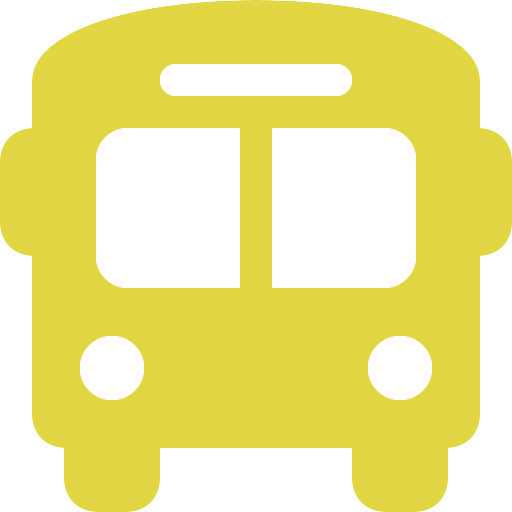
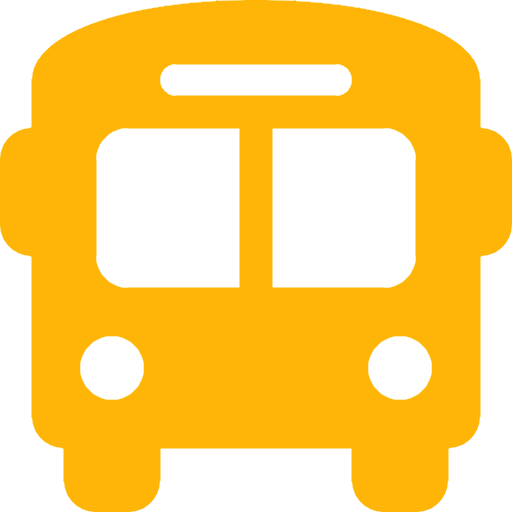
Finished visuals for stopPanel
- Finished visuals for stopPanel
- Tiny visual improvements for various icons
- Updated README.md

diff --git a/src/damose/StopPanel.java b/src/damose/StopPanel.java
@@ -23,8 +23,8 @@ import java.awt.event.ActionEvent;
 
 public class StopPanel extends JPanel {
 	
-	private JLabel nomeFermata, codiceFermata, lblArrivi;
-	private JButton btnClose, btnFavorite, btnWebsite, btnWheelChair, btnStopType;
+	private JLabel nomeFermata, codiceFermata, lblArrivi, lblLineePassanti;
+	private JButton btnClose, btnStopIcon, btnFavorite, btnCoordinates;
 	private Utente utente;
 	private DatiGTFS dati;
 	
@@ -47,7 +47,7 @@ public class StopPanel extends JPanel {
 		nomeFermata.setFont(new Font("Arial Nova", Font.BOLD, 24));
 		nomeFermata.setFocusable(false);
 								
-		nomeFermata.setBounds(80, 70, 180, 50);
+		nomeFermata.setBounds(70, 65, 200, 50);
 								
 		this.add(nomeFermata);
 		
@@ -59,7 +59,7 @@ public class StopPanel extends JPanel {
 		codiceFermata.setFont(new Font("Arial Nova", Font.ITALIC, 12));
 		codiceFermata.setFocusable(false);
 		
-		codiceFermata.setBounds(20, 125, 300, 20);
+		codiceFermata.setBounds(20, 120, 300, 20);
         
         this.add(codiceFermata);
         
@@ -73,9 +73,23 @@ public class StopPanel extends JPanel {
 		lblArrivi.setFont(new Font("Arial Nova", Font.BOLD, 24));
 		lblArrivi.setFocusable(false);
 		
-		lblArrivi.setBounds(20, 200, 200, 50);
+		lblArrivi.setBounds(20, 160, 200, 50);
 		
 		this.add(lblArrivi);
+		
+		
+		// JLabel che contiene la scritta "Appartiene a:"
+		lblLineePassanti = new JLabel("Appartiene a:");
+		
+		lblLineePassanti.setHorizontalAlignment(SwingConstants.LEADING);
+		
+		lblLineePassanti.setForeground(Color.WHITE);
+		lblLineePassanti.setFont(new Font("Arial Nova", Font.BOLD, 24));
+		lblLineePassanti.setFocusable(false);
+		
+		lblLineePassanti.setBounds(20, 380, 200, 50);
+		
+		this.add(lblLineePassanti);
 		
 
         // Pulsante per chiuderere lo stopPanel
@@ -93,7 +107,7 @@ public class StopPanel extends JPanel {
         btnClose.setBounds(-25, 5, 200, 30);
         
         ImageIcon iconClose = new ImageIcon("src/resources/close.png");
-        Image scaledImageClose = iconClose.getImage().getScaledInstance(30, 30, Image.SCALE_SMOOTH);
+        Image scaledImageClose = iconClose.getImage().getScaledInstance(20, 20, Image.SCALE_SMOOTH);
         ImageIcon newIconClose = new ImageIcon(scaledImageClose);
         btnClose.setIcon(newIconClose);
         
@@ -104,6 +118,27 @@ public class StopPanel extends JPanel {
         });
         
         this.add(btnClose);
+        
+        
+        // Pulsante per l'icona di una fermata (non interattivo, serve solo a visualizzare comodamente l'icona)
+        btnStopIcon = new JButton();
+        
+        btnStopIcon.setContentAreaFilled(false);
+        btnStopIcon.setFocusPainted(false);
+        btnStopIcon.setBorderPainted(false);
+        btnStopIcon.setBackground(new Color(255, 255, 255));
+		
+        btnStopIcon.setFocusable(false);
+		
+        btnStopIcon.setPreferredSize(new Dimension(40, 40));
+        btnStopIcon.setBounds(20, 70, 40, 40);
+        
+        ImageIcon iconStop = new ImageIcon("src/resources/fermata-bianco.png");
+        Image scaledImageStop = iconStop.getImage().getScaledInstance(32, 40, Image.SCALE_SMOOTH);
+        ImageIcon newIconStop = new ImageIcon(scaledImageStop);
+        btnStopIcon.setIcon(newIconStop);
+		
+		this.add(btnStopIcon);
         
         
         // Pulsante per l'aggiunta o la rimozione della fermata dai preferiti dell'utente
@@ -120,81 +155,35 @@ public class StopPanel extends JPanel {
         btnFavorite.setVisible(false);
         
         btnFavorite.setPreferredSize(new Dimension(50, 50));
-        btnFavorite.setBounds(290, 70, 50, 50);
+        btnFavorite.setBounds(290, 68, 50, 50);
         
         this.add(btnFavorite);
         
         
-        // Pulsante per aprire l'URL relativo alla linea in questione
-        btnWebsite = new JButton();
+        // Pulsante per le coordinate della fermata (non interattivo, serve solo a visualizzare comodamente icona e informazione)
+        btnCoordinates = new JButton();
         
-        btnWebsite.setCursor(Cursor.getPredefinedCursor(Cursor.HAND_CURSOR));
+        btnCoordinates.setForeground(Color.WHITE);
+        btnCoordinates.setFont(new Font("Arial Nova", Font.BOLD, 12));
+        btnCoordinates.setHorizontalAlignment(SwingConstants.LEADING);
+        btnCoordinates.setText(" Coordinate della fermata");
         
-        btnWebsite.setForeground(new Color(255, 255, 255));
-        btnWebsite.setFont(new Font("Arial Nova", Font.BOLD, 11));
-        btnWebsite.setText(" Sito Web");
-        btnWebsite.setHorizontalAlignment(SwingConstants.LEADING);
+        btnCoordinates.setContentAreaFilled(false);
+        btnCoordinates.setFocusPainted(false);
+        btnCoordinates.setBorderPainted(false);
+        btnCoordinates.setBackground(new Color(130, 36, 51));
         
-        btnWebsite.setContentAreaFilled(false);
-        btnWebsite.setFocusPainted(false);
-        btnWebsite.setBorderPainted(false);
-        btnWebsite.setBackground(new Color(130, 36, 51));
+        btnCoordinates.setFocusable(false);
         
-        btnWebsite.setPreferredSize(new Dimension(20, 20));
-        btnWebsite.setBounds(3, 160, 120, 20);
+        btnCoordinates.setPreferredSize(new Dimension(20, 20));
+        btnCoordinates.setBounds(145, 119, 180, 20);
         
-        ImageIcon iconWebsite = new ImageIcon("src/resources/mondo.png");
-        Image scaledImageWebsite = iconWebsite.getImage().getScaledInstance(20, 20, Image.SCALE_SMOOTH);
-        ImageIcon newIconWebsite = new ImageIcon(scaledImageWebsite);
-        btnWebsite.setIcon(newIconWebsite);
+        ImageIcon iconCoordinates = new ImageIcon("src/resources/coordinates.png");
+        Image scaledImageCoordinates = iconCoordinates.getImage().getScaledInstance(20, 18, Image.SCALE_SMOOTH);
+        ImageIcon newIconCoordinates = new ImageIcon(scaledImageCoordinates);
+        btnCoordinates.setIcon(newIconCoordinates);
         
-        this.add(btnWebsite);
-        
-        
-        // Pulsante per accessibilità con sedia a rotelle (non interattivo, serve solo per implementare comodamente il simbolo)
-        btnWheelChair = new JButton();
-     		
-     	btnWheelChair.setForeground(new Color(255, 255, 255));
-     	btnWheelChair.setFont(new Font("Arial Nova", Font.BOLD, 11));
-     	btnWheelChair.setHorizontalAlignment(SwingConstants.LEADING);
-     	btnWheelChair.setText("Disponibilità");
-     	btnWheelChair.setFocusable(false);
-     		
-     	btnWheelChair.setContentAreaFilled(false);
-     	btnWheelChair.setFocusPainted(false);
-     	btnWheelChair.setBorderPainted(false);
-     	btnWheelChair.setBackground(new Color(130, 36, 51));
-     		
-     	btnWheelChair.setPreferredSize(new Dimension(20, 20));
-     	btnWheelChair.setBounds(140, 160, 120, 20);
-     		
-     	ImageIcon iconWheelChair = new ImageIcon("src/resources/sedia.png");
-        Image scaledImageWheelChair = iconWheelChair.getImage().getScaledInstance(20, 20, Image.SCALE_SMOOTH);
-        ImageIcon newIconWheelChair = new ImageIcon(scaledImageWheelChair);
-        btnWheelChair.setIcon(newIconWheelChair);
-             
-        this.add(btnWheelChair);
-        
-        
-        // Pulsante per il tipo della fermata (fermata, stazione, ingresso di stazione, nodo, boarding area) (non interattivo, serve solo a visualizzare comodamente icona e informazione)
-        btnStopType = new JButton();
-        
-        btnStopType.setForeground(Color.WHITE);
-        btnStopType.setFont(new Font("Arial Nova", Font.BOLD, 11));
-        btnStopType.setHorizontalAlignment(SwingConstants.LEADING);
-        btnStopType.setText("Tipo di fermata");
-        
-        btnStopType.setContentAreaFilled(false);
-        btnStopType.setFocusPainted(false);
-        btnStopType.setBorderPainted(false);
-        btnStopType.setBackground(new Color(130, 36, 51));
-        
-        btnStopType.setFocusable(false);
-        
-        btnStopType.setPreferredSize(new Dimension(20, 20));
-        btnStopType.setBounds(280, 160, 120, 20);
-        
-        this.add(btnStopType);
+        this.add(btnCoordinates);
 	}
 	
 	
@@ -203,58 +192,60 @@ public class StopPanel extends JPanel {
 		
 		this.setVisible(true);
 		
-		nomeFermata.setText(fermata.getName());
-		codiceFermata.setText("ID: " + fermata.getCode());
-		int accessibile = fermata.getWheelchairBoarding(); 
-		
-		switch (accessibile) {
-			case 1:
-				btnWheelChair.setText("Accessibile");
-				break;
-				
-			case 0:
-				btnWheelChair.setText("Non accessibile");
-				break;
-				
-			default:
-				btnWheelChair.setText("Nessuna informazione");
-				break;
+		if (utente.getFermatePreferite() != null) {
+			btnFavorite.setEnabled(true);
+			btnFavorite.setVisible(true);
+			
+		    boolean isPreferita = false;
+		    
+		    for (String fermataPreferita : utente.getFermatePreferite()) {
+		        if (fermataPreferita.equals(fermata.getId().getId())) {
+		            isPreferita = true;
+		            break;
+		        }
+		    }
+
+		    String iconCuorePath = isPreferita ? "src/resources/cuore.png" : "src/resources/cuore-vuoto.png";
+		    ImageIcon iconCuore = new ImageIcon(iconCuorePath);
+		    Image scaledImageCuore = iconCuore.getImage().getScaledInstance(30, 30, Image.SCALE_SMOOTH);
+		    btnFavorite.setIcon(new ImageIcon(scaledImageCuore));
 		}
 		
 		for (ActionListener a : btnFavorite.getActionListeners()) {
 		    btnFavorite.removeActionListener(a);
 		}
 		
-		// Funzionalità per il pulsante btnPreferiti
 		btnFavorite.addActionListener(new ActionListener() {
 		    public void actionPerformed(ActionEvent e) {
 		        
-		        List<String> listaFermatePreferite = utente.getFermatePreferite();
+		        List<String> fermatePreferite = utente.getFermatePreferite();
 		        String idFermata = fermata.getId().getId();
-		        boolean isPreferita;
 		        
-		        if (listaFermatePreferite.contains(idFermata)) {
-		        	
-		            listaFermatePreferite.remove(idFermata);
-		            isPreferita = false;
+		        boolean isOraPreferita;
 		        
+		        if (fermatePreferite.contains(idFermata)) {
+		        	fermatePreferite.remove(idFermata);
+		        	isOraPreferita = false;
 		        } else {
-		        	
-		            listaFermatePreferite.add(idFermata);
-		            isPreferita = true;
+		        	fermatePreferite.add(idFermata);
+		            isOraPreferita = true;
 		        }
 		        
 		        try {
-					utente.cambiaFermatePreferite(listaFermatePreferite);
+					utente.cambiaFermatePreferite(fermatePreferite);
 				} catch (IOException e1) {
 					e1.printStackTrace();
 				}
 		        
-		        String iconPath = isPreferita ? "src/resources/cuore.png" : "src/resources/cuore-vuoto.png";
-		        ImageIcon iconPreferiti = new ImageIcon(iconPath);
-		        Image scaledIconPreferiti = iconPreferiti.getImage().getScaledInstance(30, 30, Image.SCALE_SMOOTH);
-		        btnFavorite.setIcon(new ImageIcon(scaledIconPreferiti));
+		        String iconCuorePath = isOraPreferita ? "src/resources/cuore.png" : "src/resources/cuore-vuoto.png";
+		        ImageIcon iconCuore = new ImageIcon(iconCuorePath);
+		        Image scaledImageCuore = iconCuore.getImage().getScaledInstance(30, 30, Image.SCALE_SMOOTH);
+		        btnFavorite.setIcon(new ImageIcon(scaledImageCuore));
 		    }
 		});
+		
+		nomeFermata.setText(fermata.getName());
+		codiceFermata.setText("ID: " + fermata.getCode());
+		btnCoordinates.setText(" " + Math.floor(fermata.getLat() * 100000) / 100000 + ", " + Math.floor(fermata.getLon() * 100000) / 100000);
 	}	
 }

diff --git a/src/damose/RoutePanel.java b/src/damose/RoutePanel.java
@@ -282,6 +282,7 @@ public class RoutePanel extends JPanel {
 	
 	// Metodo che "costruisce" concretamente il lineaPanel in base alla linea in questione
 	public void creaPannelloLinea(Route linea, DatiGTFS dati) {
+		
 		this.setVisible(true);
 		
 		if (fermateScrollPane != null) {

diff --git a/README.md b/README.md
@@ -21,16 +21,9 @@ ___
 - Personalizzare l'aspetto dei waypoint (fermate di agenzie diverse, mezzi, ecc. ecc.)
 
 #### StopPanel:
-Alla selezione di una determinata fermata, dovrebbero diventare accessibili le seguenti informazioni:
-- informazioni identificative
-	- nome
-	- codice
-	- coordinate
-	- ID
-	- tipo 
-	- accessibilità
+Da implementare:
 - linee passanti per tale fermata
-- se presente, prossimi arrivi con linea di appartenenza e orario di arrivo e direzione
+- se presenti, prossimi arrivi con linea di appartenenza, orario di arrivo e direzione
 - ritardo tipico dei mezzi per tale fermata
 - (OPZIONALE MA SAREBBE BELLO) vicinanza a punti di interesse
 
@@ -62,9 +55,6 @@ Alla selezione di un determinato mezzo, dovrebbero diventare accessibili le segu
 - velocità del mezzo
 - eventuale ritardo del mezzo
 
-#### Navbar:
-- Aggiungere funzionalità per la barra di ricerca
-
 #### Ricerca:
 - Ricerca di una fermata per nome e codice
 - Ricerca di una linea per numero e nome
@@ -77,7 +67,7 @@ Alla selezione di un determinato mezzo, dovrebbero diventare accessibili le segu
 
 #### Utente:
 - Icona del profilo
-- Impostazioni di personalizzazione per l'utente:
+- Impostazioni per l'utente:
   - Cambiare tema
   - Liberare la cache
   - Visualizzare solo fermate e linee preferite
